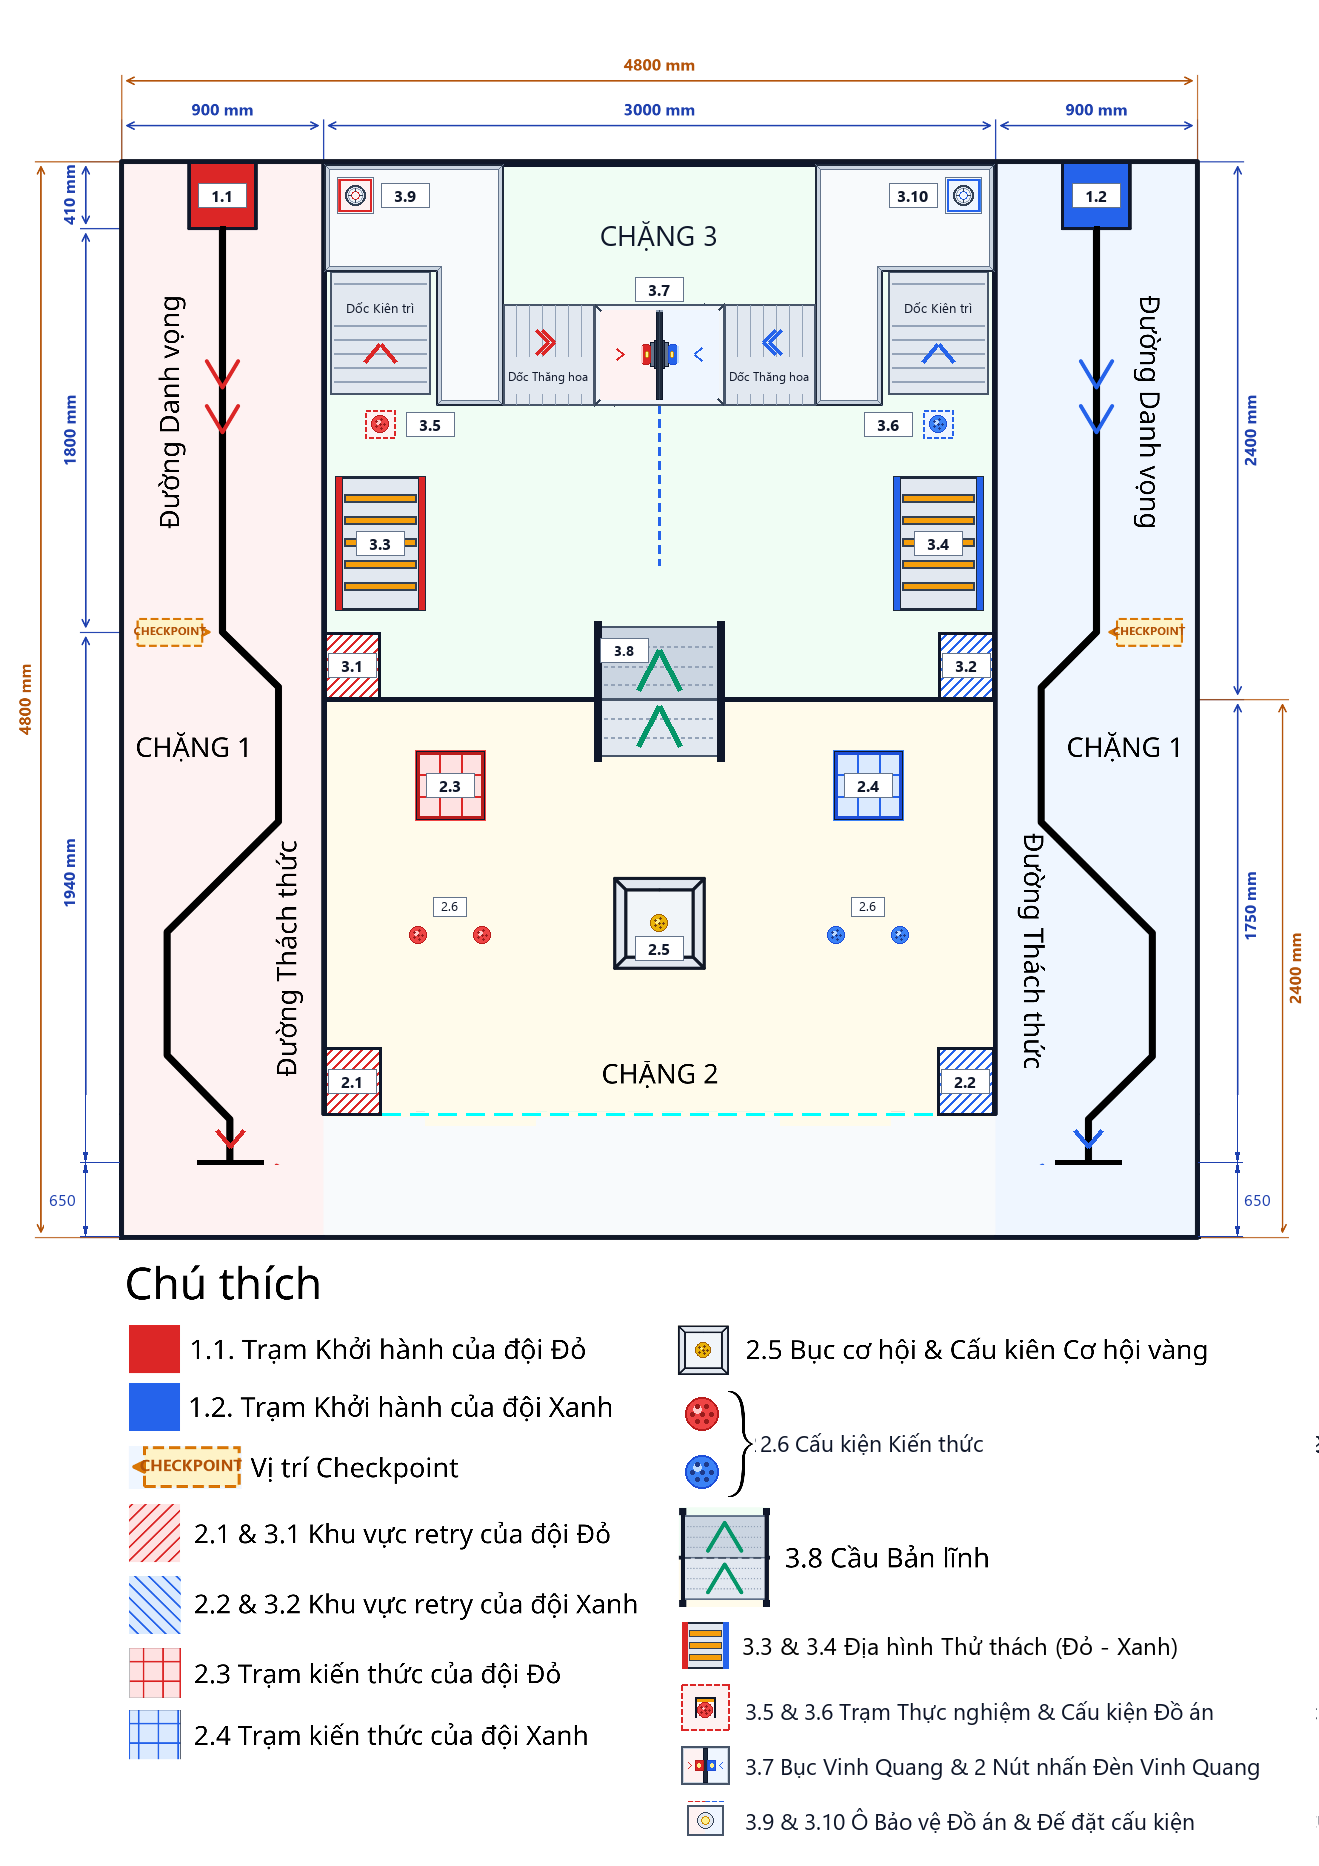
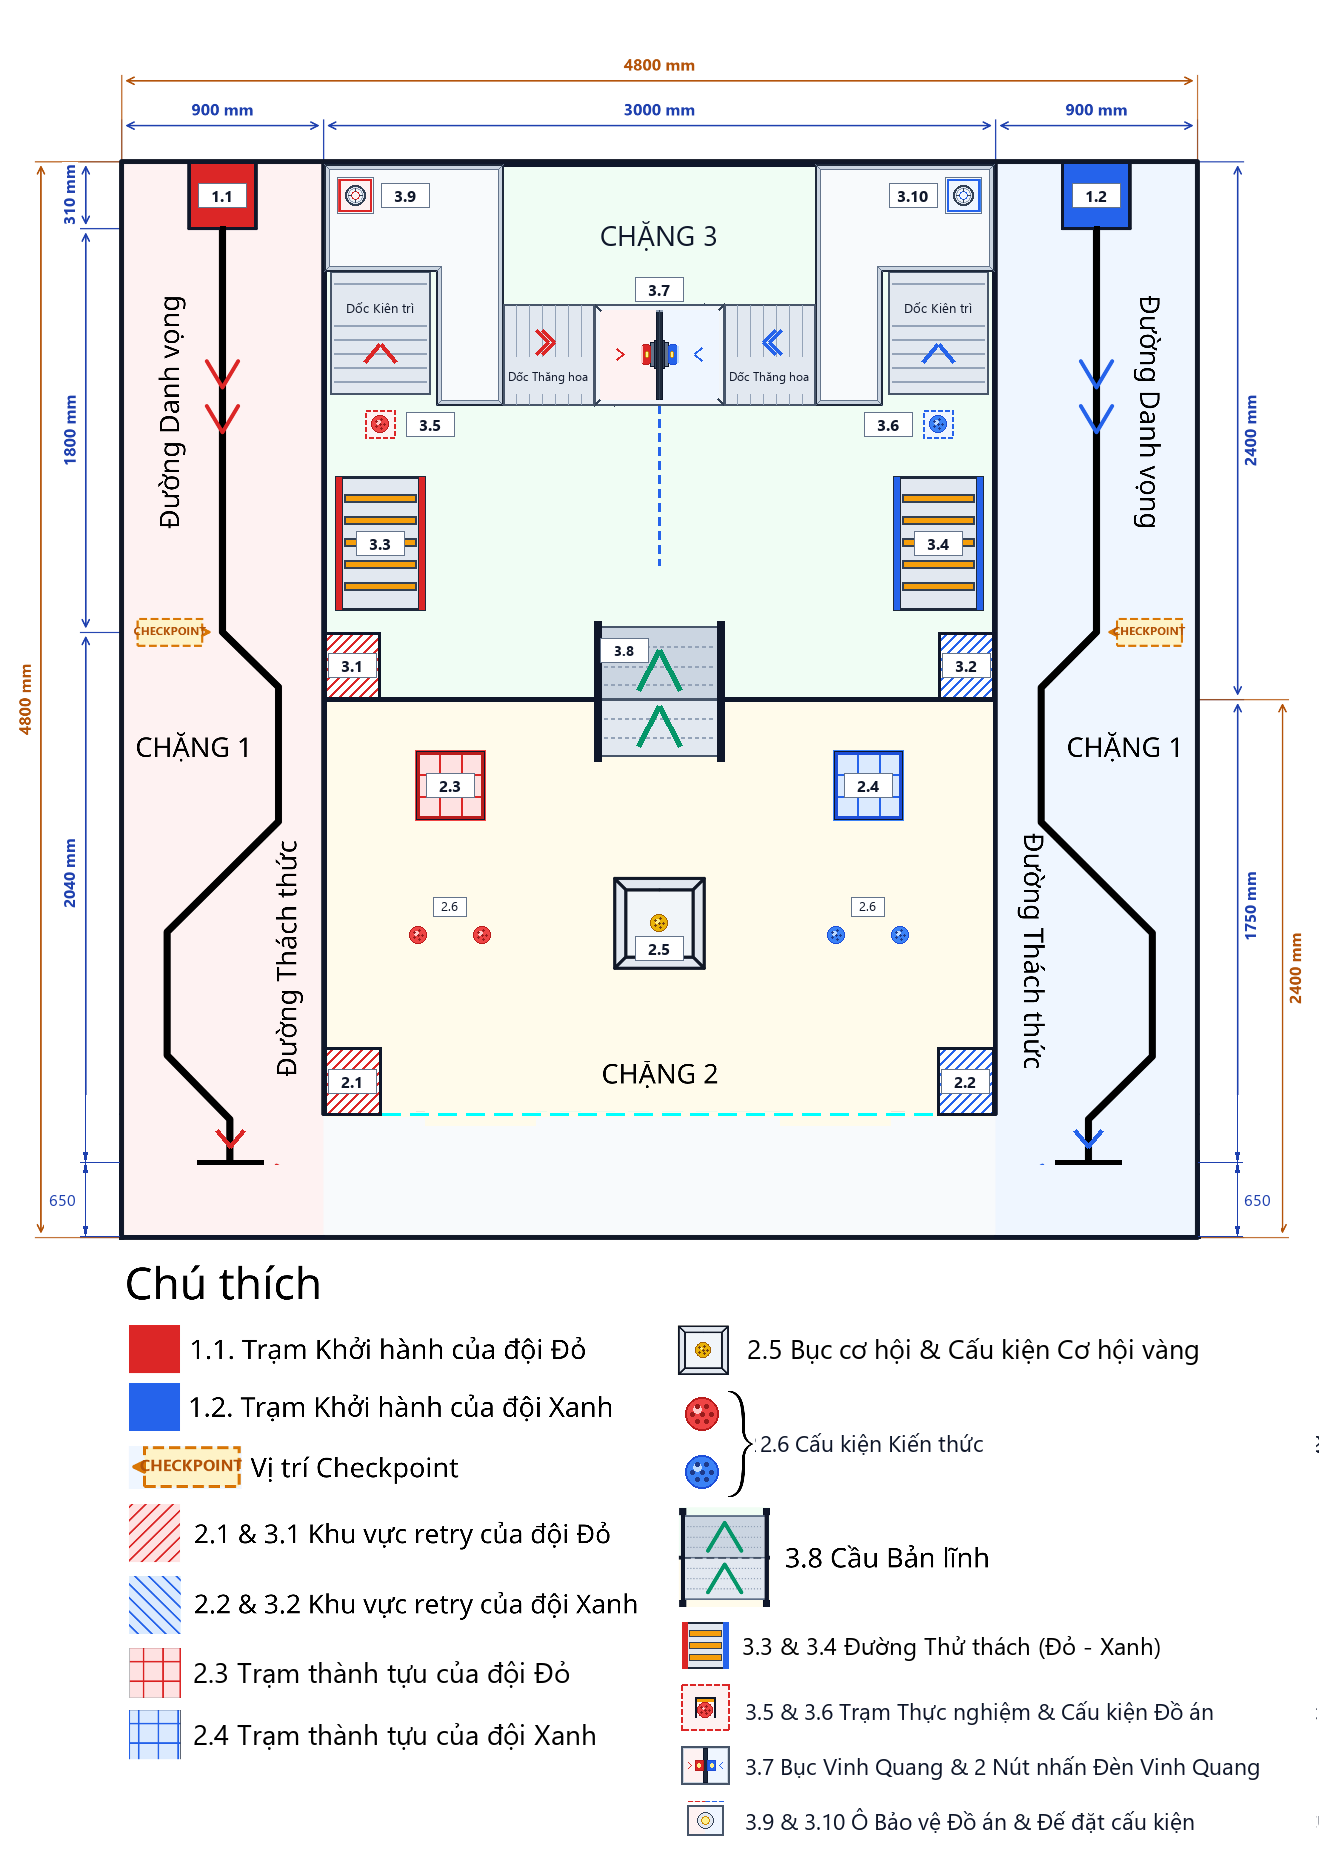
Sa bàn: trạm khởi hành 310 mm, Đường Thách thức 2040 mm, sửa chú thích theo thể lệ

Changed region(s): [[0.2176, 0.8703, 0.4352, 0.9325], [0.5906, 0.7149, 0.9014, 0.746], [0.6528, 0.8703, 0.9014, 0.9014]]

diff --git a/src/app/rules/page.tsx b/src/app/rules/page.tsx
@@ -182,7 +182,7 @@ export default function RulesPage() {
           <ul className={ul}>
             <li>Nền trắng, line đen. 2 làn biên độc lập 4800 (Dài) × 900 (Rộng) mm: Đội Đỏ cánh trái, Đội Xanh cánh phải.</li>
             <li><b>Trạm khởi hành (1.1 – 1.2):</b> ô 410 × 360 mm ở góc trên cùng mỗi làn; ô màu Đỏ (1.1) cho đội Đỏ, ô màu Xanh (1.2) cho đội Xanh.</li>
-            <li>Vạch dẫn hướng màu đen rộng 20 mm. <b>Đường Danh vọng:</b> đoạn thẳng 1800 mm nối từ Trạm khởi hành. <b>Đường Thách thức:</b> ziczac dài 1940 mm, khúc cua 45°, kết thúc ở vạch ngang chữ T dài 300 mm.</li>
+            <li>Vạch dẫn hướng màu đen rộng 20 mm. <b>Đường Danh vọng:</b> đoạn thẳng 1800 mm nối từ Trạm khởi hành. <b>Đường Thách thức:</b> ziczac dài 2040 mm, khúc cua 45°, kết thúc ở vạch ngang chữ T dài 300 mm.</li>
             <li><b>Checkpoint:</b> cuối Đường Danh vọng (mốc 1800 mm, trước khi vào Đường Thách thức).</li>
           </ul>
           <h3 className={h3}>2. Chặng 2 · Bứt phá</h3>

diff --git a/src/components/landing/RulesTabs.tsx b/src/components/landing/RulesTabs.tsx
@@ -58,7 +58,7 @@ export default function RulesTabs() {
               <h3 className="font-display text-3xl uppercase text-navy">Thích nghi – Dò line tự hành</h3>
               <p className="mt-4 text-slate-600">
                 Mỗi đội một làn line riêng rộng 900 mm dọc hai mép sa bàn. Robot xuất phát từ Trạm khởi hành 410 × 360 mm, bám line đen
-                rộng 20 mm qua Đường Danh vọng thẳng 1800 mm tới Checkpoint, rồi vượt Đường Thách thức ziczac 45° dài 1940 mm về vạch chữ T.
+                rộng 20 mm qua Đường Danh vọng thẳng 1800 mm tới Checkpoint, rồi vượt Đường Thách thức ziczac 45° dài 2040 mm về vạch chữ T.
               </p>
               <ul className="mt-6 space-y-3 text-slate-700">
                 <li><strong>Tự hành 100%:</strong> chỉ ấn nút khởi động một lần, tay cầm đặt xuống đất suốt Chặng 1; về đích xong robot tự chuyển sang điều khiển từ xa.</li>
